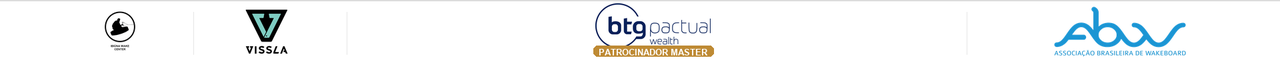
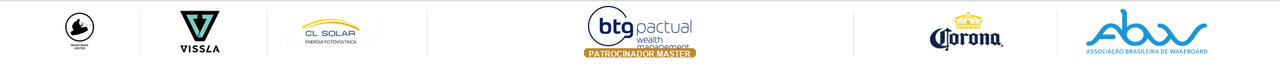
Add CL Solar and Corona to broadcast footer tarja.

diff --git a/public/tarja-transmissao/index.html b/public/tarja-transmissao/index.html
@@ -15,13 +15,13 @@ a{color:#e2b866}
 </head>
 <body>
   <h1>Tarja rodapé (transmissão)</h1>
-  <p>Fundo branco · fina · IWC · Vissla · <b>BTG (destaque)</b> · ABW</p>
-  <p class="meta">1920×100 — não cobre a imagem; use colada no rodapé do OBS</p>
+  <p>Fundo branco · fina · IWC · Vissla · CL Solar · <b>BTG (destaque)</b> · Corona · ABW</p>
+  <p class="meta">1920×100 — use colada no rodapé do OBS</p>
   <div class="stage"><div class="fake"></div><img src="tarja-transmissao-btg-destaque.png" alt="Tarja rodapé"></div>
   <p>
     <a href="tarja-transmissao-btg-destaque.png" download>Baixar 1920×100</a> ·
     <a href="tarja-transmissao-btg-destaque-1280.png" download>Baixar 1280</a> ·
-    <a href="tarja-transmissao-btg-destaque-80.png" download>Baixar 1920×80 (ainda mais fina)</a>
+    <a href="tarja-transmissao-btg-destaque-80.png" download>Baixar 1920×80</a>
   </p>
 </body>
 </html>
